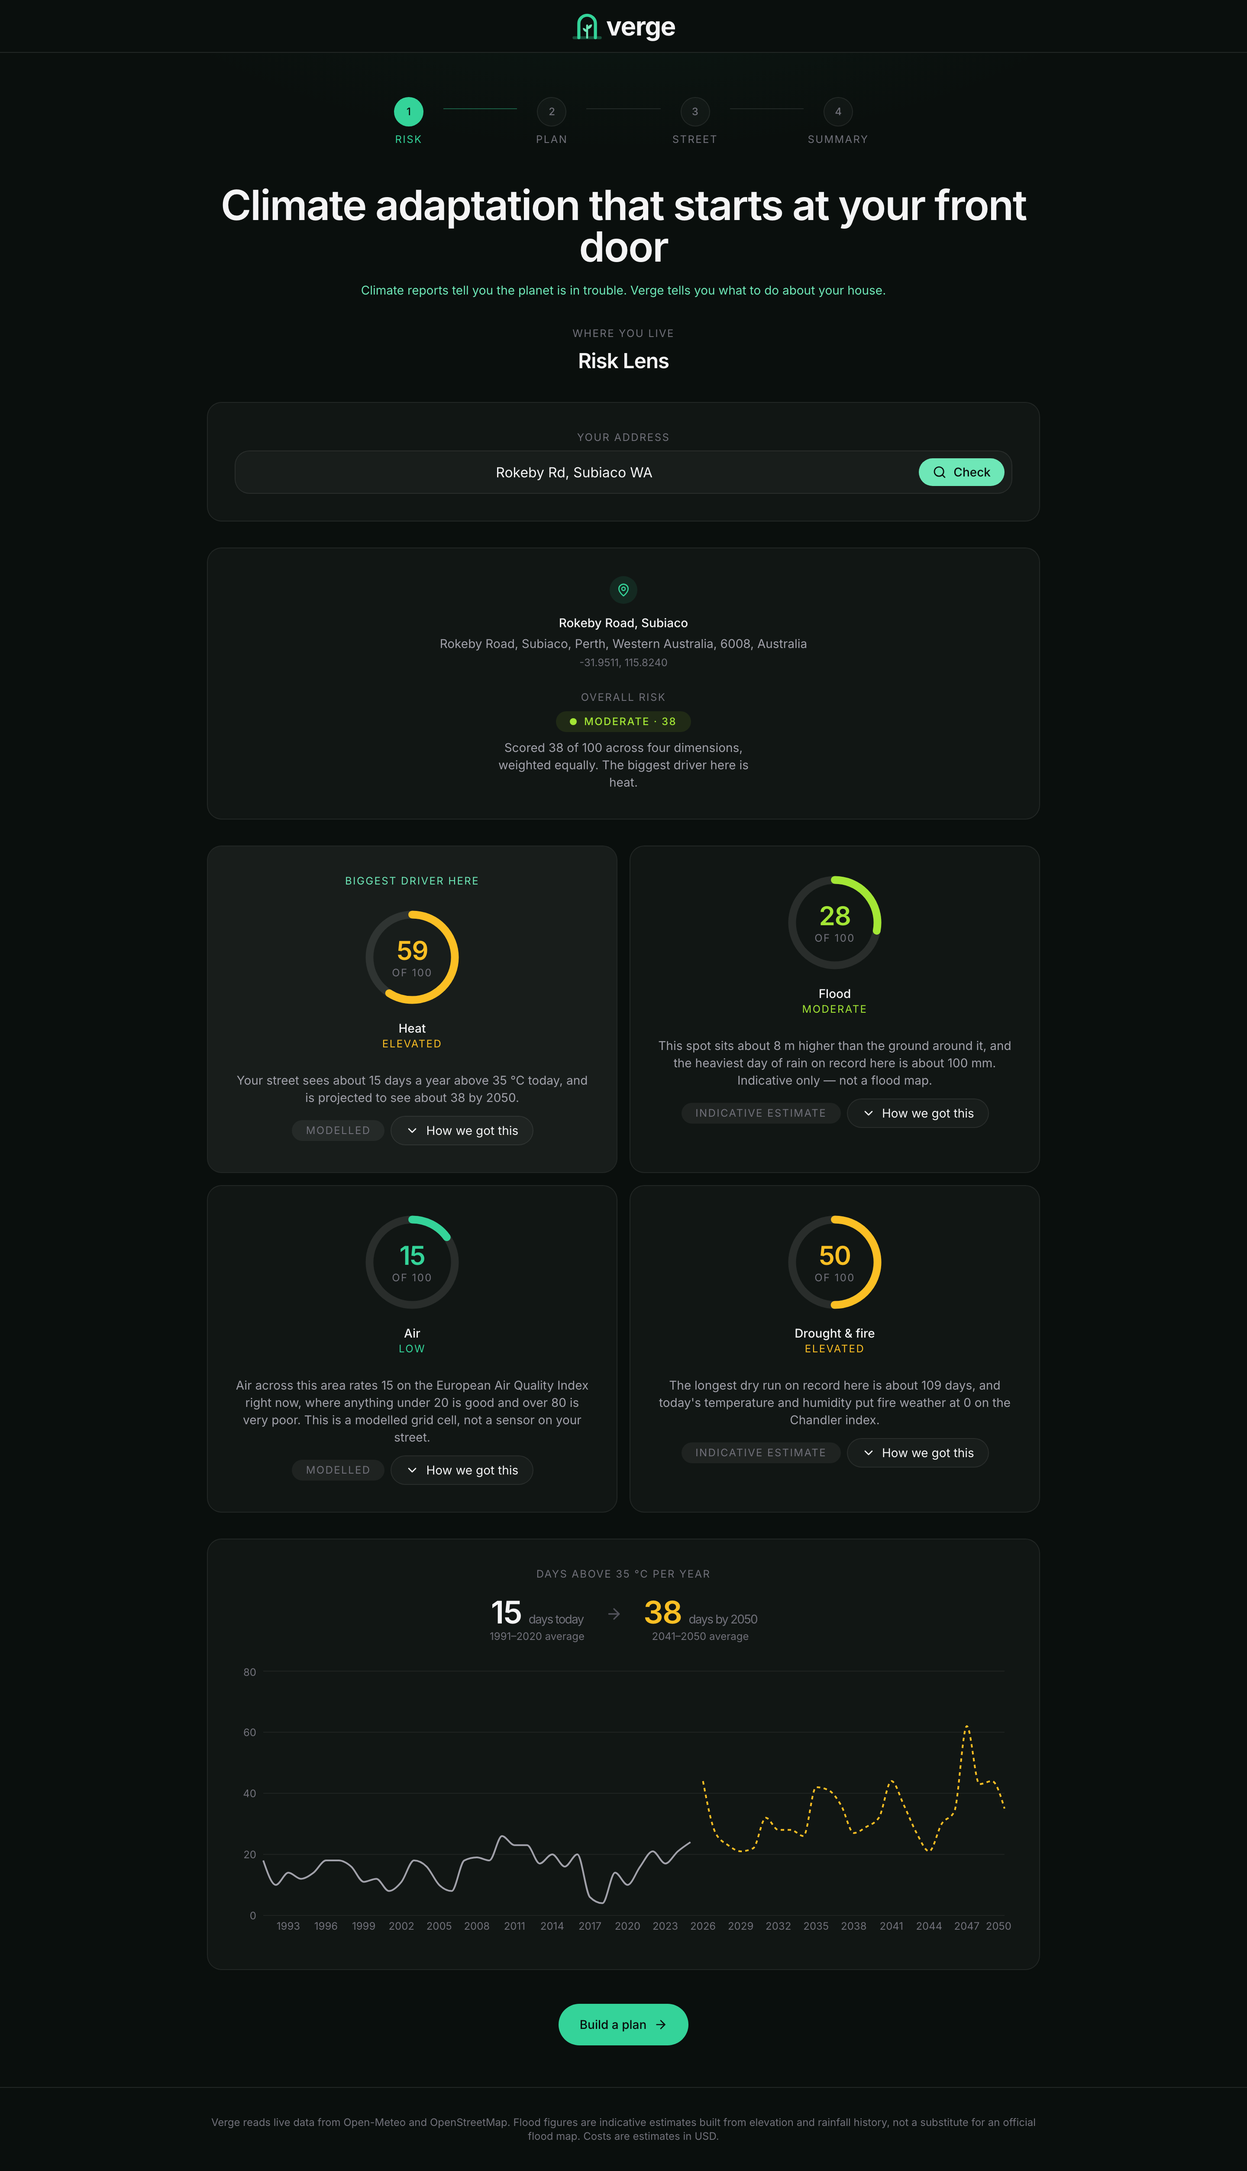
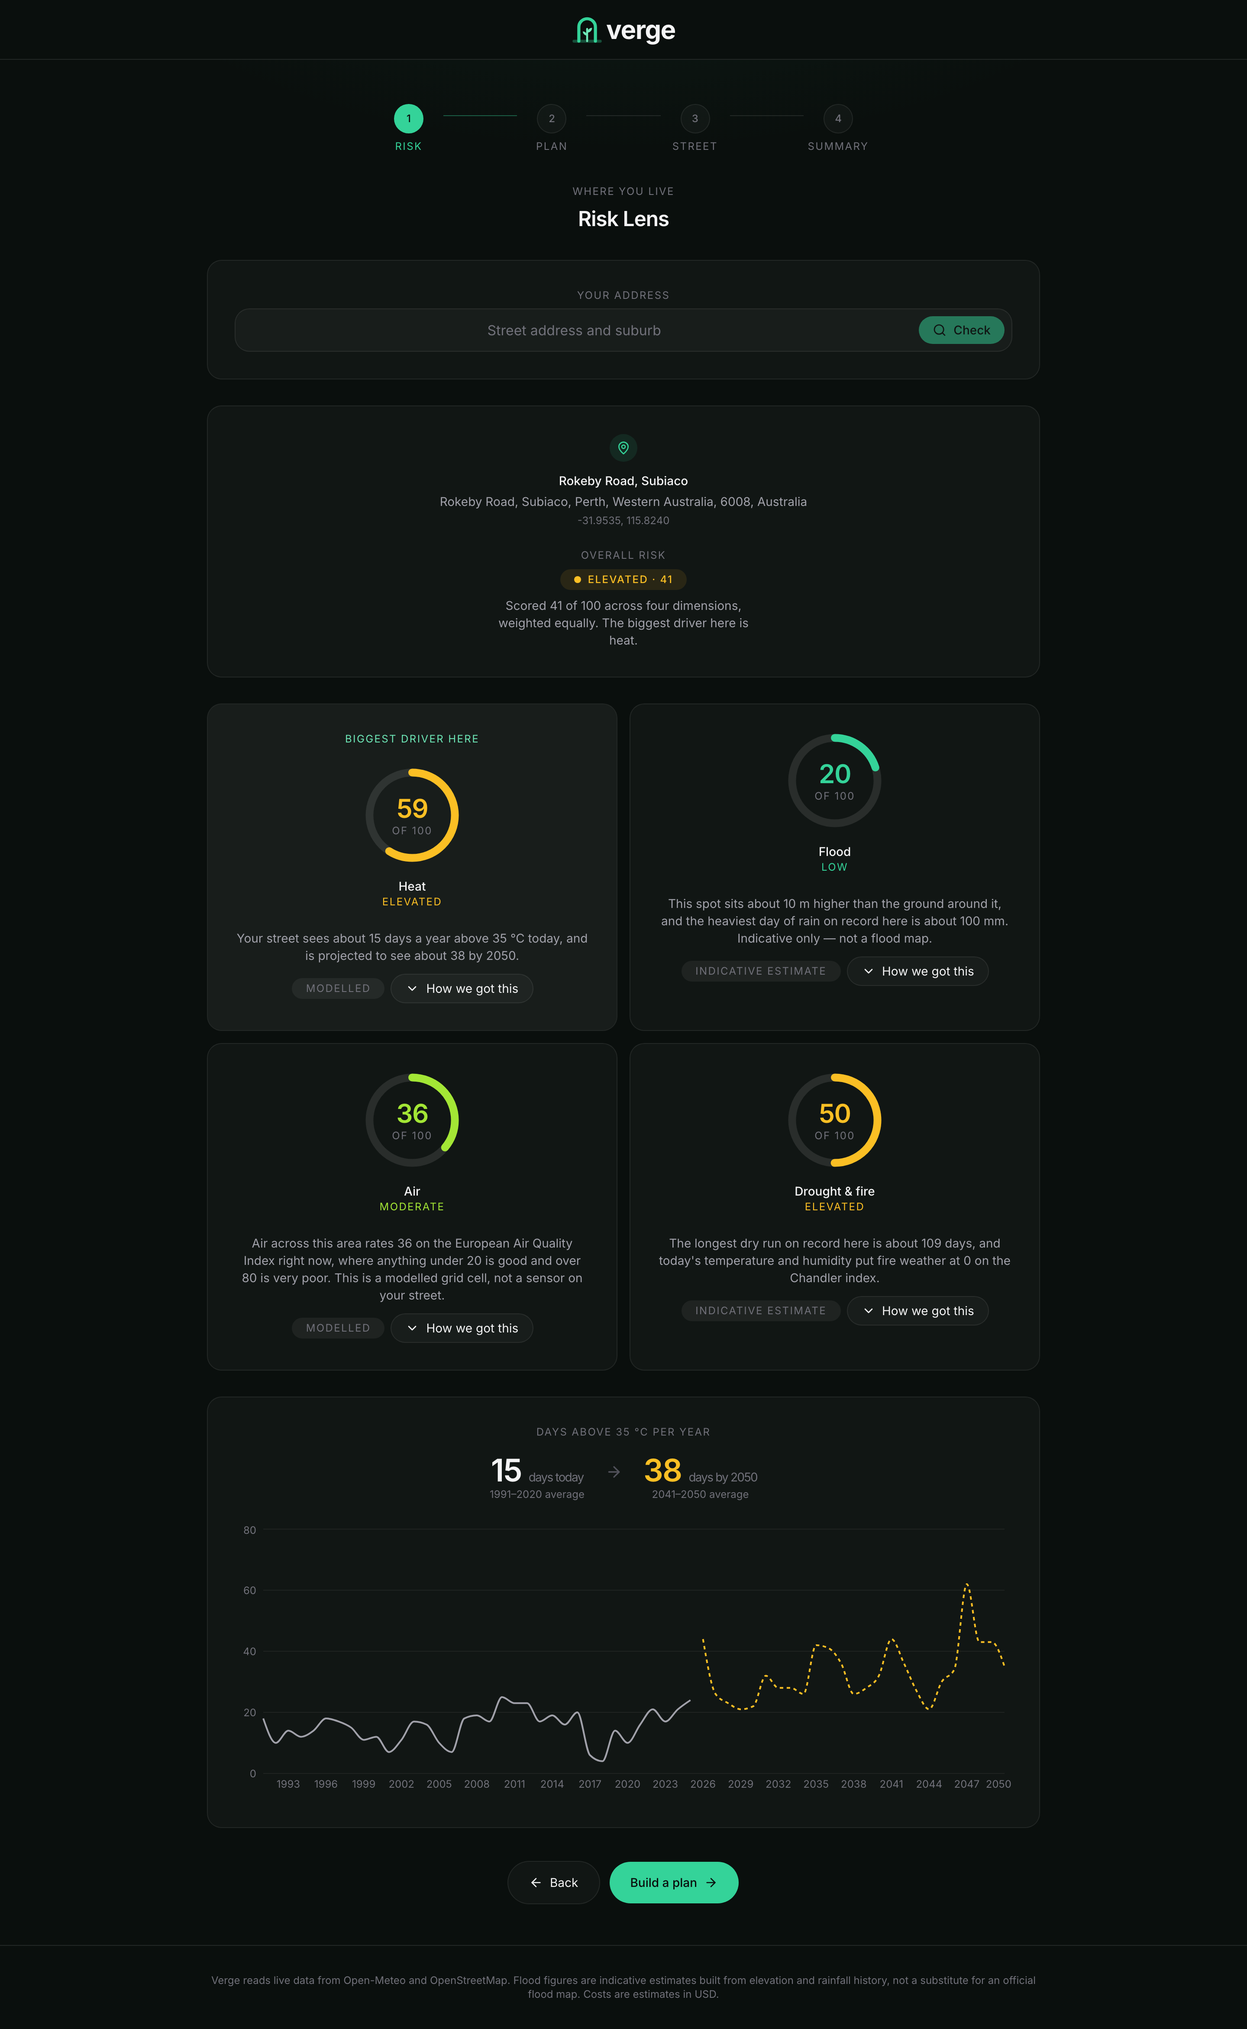
Add a home page so the app opens like an app
The first screen was step one of the wizard — a hero, an address field, and a
large empty card explaining nothing would appear until you typed something.
That is a form with a headline, not a front door.

The home page's only job is to take an address. Three short lines say what it
buys, and submitting drops you onto the Risk step with the profile already
loading. It is not a fifth step: the rail still shows four and the home page
sits outside it, because it is where the app starts rather than something you
complete. The wordmark now returns there from anywhere, since the rail only
covers the numbered steps and the page would otherwise be unreachable once you
are inside the flow.

Splitting the entrance from the first step changed what "started" means. The
guard bounced anything without a resolved profile back to the first step, but
no profile exists while the five climate requests are in flight, so arriving at
Risk right after submitting would have bounced straight home. "Started" is now
"an address was submitted". Verified: #summary with no profile lands on #home, a
search from home lands on #lens, and the profile survives round trips through
the front door.

Screenshot script hardened: regenerating once rebuilt the Street Audit image
from a watermarked Google Street View capture in test-photos/ and it had to be
reverted before commit. That shot is now opt-in via AUDIT_PHOTO and runs last so
a failure cannot block the other five. The committed audit screenshot is
[…]

diff --git a/src/components/home/HomePage.tsx b/src/components/home/HomePage.tsx
@@ -1,0 +1,103 @@
+import { ImagePlus, ListChecks, MapPin } from 'lucide-react'
+import type { ComponentType } from 'react'
+
+import { AddressSearch } from '../lens/AddressSearch'
+import { Card } from '../ui/Card'
+
+interface HomePageProps {
+  readonly onSearch: (query: string) => void
+  readonly loading?: boolean
+  readonly error?: string
+}
+
+interface StepPreview {
+  readonly icon: ComponentType<{ className?: string }>
+  readonly label: string
+  readonly line: string
+}
+
+/**
+ * What the address buys you, in three lines.
+ *
+ * Kept to a noun phrase and one short sentence each. The long explanations
+ * that used to sit on the first screen were removed on purpose — a front door
+ * that has to be read before it can be used is not a front door.
+ */
+const PREVIEW: readonly StepPreview[] = [
+  {
+    icon: MapPin,
+    label: 'Your risk',
+    line: 'Heat, flood, air and fire weather, scored for your coordinate.',
+  },
+  {
+    icon: ListChecks,
+    label: 'Your plan',
+    line: 'Five ranked actions with cost and effort. Renters get renter-legal ones.',
+  },
+  {
+    icon: ImagePlus,
+    label: 'Your street',
+    line: 'A photo becomes a cooling score and three specific changes.',
+  },
+]
+
+/**
+ * The front door.
+ *
+ * One job: take an address. Everything else on this page exists to make that
+ * field look worth using, which is why the three-step preview is three short
+ * lines rather than a feature tour.
+ *
+ * It is NOT a numbered step. The progress rail is hidden here and the flow
+ * still has four steps — this is the page you start from, and counting it
+ * would make a four-step wizard look like a five-step one. Scope is unchanged:
+ * CLAUDE.md section 2 locks three features, and this presents them rather than
+ * adding a fourth.
+ */
+export function HomePage({ onSearch, loading = false, error }: HomePageProps) {
+  return (
+    <div className="space-y-8">
+      <section className="space-y-4 pt-4 text-center md:pt-10">
+        <h1 className="text-4xl font-semibold tracking-tight text-zinc-100 md:text-6xl">
+          Climate adaptation that starts at your front door
+        </h1>
+        <p className="mx-auto max-w-2xl text-sm text-accent-text md:text-base">
+          Climate reports tell you the planet is in trouble. Verge tells you what to do
+          about your house.
+        </p>
+      </section>
+
+      <Card>
+        <AddressSearch
+          onSearch={onSearch}
+          loading={loading}
+          {...(error ? { error } : {})}
+        />
+      </Card>
+
+      <ul className="grid grid-cols-1 gap-4 md:grid-cols-3">
+        {PREVIEW.map((item) => {
+          const Icon = item.icon
+          return (
+            <li key={item.label}>
+              <Card>
+                <div className="flex h-full flex-col items-center gap-3 text-center">
+                  <span className="flex h-10 w-10 items-center justify-center rounded-full bg-accent-quiet">
+                    <Icon className="h-5 w-5 text-accent" />
+                  </span>
+                  <p className="text-sm font-medium text-zinc-100">{item.label}</p>
+                  <p className="text-sm text-zinc-400">{item.line}</p>
+                </div>
+              </Card>
+            </li>
+          )
+        })}
+      </ul>
+
+      <p className="text-center text-xs text-zinc-500">
+        Built on live observational and projection data. Nothing is stored, and no
+        account is needed.
+      </p>
+    </div>
+  )
+}

diff --git a/src/App.tsx b/src/App.tsx
@@ -3,6 +3,7 @@ import { ImagePlus, MapPin } from 'lucide-react'
 
 import { AddressSearch } from './components/lens/AddressSearch'
 import { AppShell } from './components/layout/AppShell'
+import { HomePage } from './components/home/HomePage'
 import { Badge } from './components/ui/Badge'
 import { Button } from './components/ui/Button'
 import { Card } from './components/ui/Card'
@@ -103,6 +104,13 @@ export default function App() {
    * the summary are both about one specific coordinate.
    */
   const hasProfile = profile !== undefined
+
+  /**
+   * The flow has begun once an address is submitted, not once it resolves —
+   * otherwise arriving at the Risk step while the five climate requests are
+   * still in flight would bounce straight back to the home page.
+   */
+  const started = hasProfile || busy
   const unlocked: readonly Step[] = hasProfile ? ALL_STEPS : LENS_ONLY
 
   /**
@@ -124,8 +132,14 @@ export default function App() {
    * identity on every render, which would run this effect on every render.
    */
   useEffect(() => {
+    if (step === 'home') return
+    if (!started) {
+      // A bookmarked #summary, or a refresh after the state was lost.
+      go('home')
+      return
+    }
     if (!hasProfile && step !== 'lens') go('lens')
-  }, [step, hasProfile, go])
+  }, [step, started, hasProfile, go])
 
   /**
    * Clear every answer and go back to the beginning.
@@ -141,25 +155,31 @@ export default function App() {
     lens.reset()
     planner.reset()
     audit.reset()
-    go('lens')
+    go('home')
   }, [lens, planner, audit, go])
 
   return (
     <AppShell>
-      <StepNav current={step} unlocked={unlocked} completed={completed} onGo={go} />
+      {step === 'home' ? null : (
+        <StepNav current={step} unlocked={unlocked} completed={completed} onGo={go} />
+      )}
+
+      {step === 'home' ? (
+        <StepPage stepKey="home">
+          <HomePage
+            onSearch={(query) => {
+              planner.reset()
+              void lens.load(query)
+              go('lens')
+            }}
+            loading={busy}
+            {...(lensError ? { error: lensError.message } : {})}
+          />
+        </StepPage>
+      ) : null}
 
       {step === 'lens' ? (
         <StepPage stepKey="lens">
-          <section className="space-y-4 pt-2">
-            <h1 className="text-3xl font-semibold tracking-tight text-zinc-100 md:text-5xl">
-              Climate adaptation that starts at your front door
-            </h1>
-            <p className="mx-auto max-w-2xl text-sm text-accent-text">
-              Climate reports tell you the planet is in trouble. Verge tells you what to do about
-              your house.
-            </p>
-          </section>
-
           <section className="space-y-8">
             <SectionHeading eyebrow="Where you live" title="Risk Lens" />
 
@@ -199,6 +219,7 @@ export default function App() {
             )}
 
             <StepFooter
+              onBack={() => go('home')}
               onNext={() => go('plan')}
               nextLabel="Build a plan"
               {...(profile ? {} : { nextBlockedReason: 'Check an address to continue.' })}

diff --git a/src/components/layout/Header.tsx b/src/components/layout/Header.tsx
@@ -69,12 +69,23 @@ function VergeMark({ className }: { readonly className?: string }) {
 export function Header() {
   return (
     <header className="border-b border-white/10 bg-canvas">
-      <div className="mx-auto flex max-w-5xl items-center justify-center gap-1 px-6 py-3 md:px-8">
-        <VergeMark className="h-9 w-9 shrink-0 text-accent" />
+      <div className="mx-auto flex max-w-5xl items-center justify-center px-6 py-3 md:px-8">
+        {/*
+          The lockup is the way back to the front door. Every app does this, and
+          without it the home page is unreachable once you are inside the flow —
+          the progress rail only covers the four numbered steps.
+        */}
+        <a
+          href="#home"
+          aria-label="Verge home"
+          className="flex items-center gap-1 rounded-2xl px-2 py-1 transition-colors duration-300 ease-out hover:bg-white/[0.03]"
+        >
+          <VergeMark className="h-9 w-9 shrink-0 text-accent" />
 
-        <p className="text-3xl font-bold lowercase leading-none tracking-tight text-zinc-100">
-          verge
-        </p>
+          <p className="text-3xl font-bold lowercase leading-none tracking-tight text-zinc-100">
+            verge
+          </p>
+        </a>
       </div>
     </header>
   )

diff --git a/src/components/layout/StepNav.tsx b/src/components/layout/StepNav.tsx
@@ -2,10 +2,10 @@ import { Fragment } from 'react'
 import { Check, Lock } from 'lucide-react'
 
 import { cx } from '../../lib/format'
-import { STEPS } from '../../hooks/useStep'
-import type { Step } from '../../hooks/useStep'
+import { NAV_STEPS } from '../../hooks/useStep'
+import type { NavStep, Step } from '../../hooks/useStep'
 
-const LABELS: Readonly<Record<Step, string>> = {
+const LABELS: Readonly<Record<NavStep, string>> = {
   lens: 'Risk',
   plan: 'Plan',
   audit: 'Street',
@@ -39,11 +39,11 @@ export function StepNav({ current, unlocked, completed, onGo }: StepNavProps) {
   return (
     <nav aria-label="Progress" className="mx-auto w-full max-w-xl">
       <ol className="flex items-start justify-center">
-        {STEPS.map((step, index) => {
+        {NAV_STEPS.map((step, index) => {
           const isCurrent = step === current
           const isDone = completed.includes(step)
           const isUnlocked = unlocked.includes(step)
-          const previous = STEPS[index - 1]
+          const previous = NAV_STEPS[index - 1]
           const connectorLit = previous !== undefined && completed.includes(previous)
 
           return (

diff --git a/src/hooks/useStep.ts b/src/hooks/useStep.ts
@@ -1,18 +1,30 @@
 import { useCallback, useEffect, useState } from 'react'
 
-/** The four pages of the flow, in order. */
-export const STEPS = ['lens', 'plan', 'audit', 'summary'] as const
+/**
+ * The numbered flow, in order. These are the four the progress rail shows.
+ */
+export const NAV_STEPS = ['lens', 'plan', 'audit', 'summary'] as const
+
+/**
+ * Every page the hash can address, including the front door.
+ *
+ * `home` is deliberately outside NAV_STEPS: it is where the app starts, not a
+ * step you complete, and numbering it would make a four-step flow look like a
+ * five-step one.
+ */
+export const STEPS = ['home', ...NAV_STEPS] as const
 
 export type Step = (typeof STEPS)[number]
+export type NavStep = (typeof NAV_STEPS)[number]
 
 function isStep(value: string): value is Step {
   return (STEPS as readonly string[]).includes(value)
 }
 
 function readHash(): Step {
-  if (typeof window === 'undefined') return 'lens'
+  if (typeof window === 'undefined') return 'home'
   const raw = window.location.hash.replace(/^#/, '')
-  return isStep(raw) ? raw : 'lens'
+  return isStep(raw) ? raw : 'home'
 }
 
 export interface UseStep {

diff --git a/DECISIONS.md b/DECISIONS.md
@@ -1254,3 +1254,55 @@ runs return five.
 Third time this pattern has paid off: the renter gate, the audit's missing
 temperature field, and now this. If a guarantee matters, enforce it in code —
 asking the model is a preference, not a contract.
+
+---
+
+## 2026-08-30 — A home page, so it opens like an app
+
+The first screen was step one of the wizard: a hero, an address field, and a
+large empty card explaining that nothing would appear until you typed
+something. That is a form with a headline, not a front door.
+
+There is now a home page whose only job is to take an address. Three short
+lines say what the address buys — your risk, your plan, your street — and
+submitting one drops you straight onto the Risk step with the profile already
+loading.
+
+**It is not a fifth step.** The progress rail still shows four, and the home
+page sits outside it: it is where the app starts, not something you complete,
+and numbering it would make a four-step flow look like five. Same argument as
+the summary page, and scope is still the three features CLAUDE.md locks.
+
+**The wordmark is now the way back.** Without it the home page becomes
+unreachable the moment you enter the flow, because the rail only covers the
+numbered steps. This is the convention every app already uses, so it needs no
+explaining.
+
+### Getting the guard right
+
+Splitting the entrance from the first step changed what "started" means. The
+guard originally bounced anything without a resolved profile back to the first
+step, but the profile does not exist yet while the five climate requests are in
+flight — so arriving at the Risk step immediately after submitting would have
+bounced straight home again. `started` is therefore "an address has been
+submitted", not "a profile exists". Verified: `#summary` with no profile lands
+on `#home`, a search from home lands on `#lens`, and the profile survives every
+round trip through the front door.
+
+### A test bug that looked exactly like an app bug
+
+The first verification reported the profile lost on returning to `#lens`. It was
+not. `OVERALL RISK` is rendered uppercase by CSS, `innerText` returns what is
+rendered, and my check was a case-sensitive `includes('Overall risk')` — while
+the Playwright locator that had just passed was case-insensitive. Two checks of
+the same thing disagreeing, and the stricter-looking one was wrong. Second time
+this session: the same mistake hid the elapsed counter.
+
+### Screenshot script hardened
+
+Regenerating the shots once rebuilt the Street Audit image from a Google Street
+View capture sitting in `test-photos/`, watermark and all, and it had to be
+caught and reverted before commit. The audit shot is now opt-in
+(`AUDIT_PHOTO=<path>`) rather than picking up whatever is on disk, and it runs
+last so a failure there cannot block the other five. The committed audit
+screenshot is consequently older than the rest, which README now says outright.

diff --git a/CLAUDE.md b/CLAUDE.md
@@ -103,11 +103,19 @@ This is the ninety-second video moment. It carries Technology and Originality.
 ### Presentation: four pages, still three features
 
 Amended 2026-08-30. The three features are presented as a four-page flow —
-Risk, Plan, Street, Summary — rather than one long scroll. Each step renders on
-its own, and the current step is mirrored into the URL hash so the browser back
-button works and a refresh keeps your place.
+Risk, Plan, Street, Summary — rather than one long scroll, entered from a home
+page. Each step renders on its own, and the current step is mirrored into the
+URL hash so the browser back button works and a refresh keeps your place.
 
-**The summary is a view, not a fourth feature.** It recomputes nothing; every
+**The home page is the front door, not a step.** It is outside the numbered
+rail, which stays at four: it is where the app starts rather than something you
+complete, and numbering it would make a four-step flow look like five. Its only
+job is to take an address; the three-line preview exists to make that field look
+worth using. The wordmark returns to it from anywhere, because the rail covers
+only the numbered steps.
+
+**Neither the home page nor the summary is a feature.** The summary is a view
+over work already done, and the home page is an entrance to it. It recomputes nothing; every
 number on it was already produced by the step that owns it, so it cannot
 disagree with the flow that built it. Scope is still locked at three.
 
@@ -184,6 +192,7 @@ verge/
     │   └── useStreetAudit.ts
     └── components/
         ├── layout/       AppShell, Header, SectionHeading, StepNav, StepFooter, StepPage
+        ├── home/         HomePage
         ├── summary/      SummaryPage
         ├── ui/           Card, Button, Field, Badge, Skeleton, ErrorState
         ├── lens/         AddressSearch, RiskDial, RiskGrid, TrendChart, Verdict

diff --git a/README.md b/README.md
@@ -16,8 +16,10 @@ exact coordinate out of real observational and projection data, turns it into a
 ranked, costed plan of things you can do this month, and grades your street from
 a photo.
 
-It runs as four pages — Risk, Plan, Street, Summary — with the current step in
-the URL hash, so the browser back button works and a refresh keeps your place.
+It opens on a home page whose only job is to take an address, then runs as four
+pages — Risk, Plan, Street, Summary — with the current step in the URL hash, so
+the browser back button works and a refresh keeps your place. The wordmark
+returns you to the front door from anywhere.
 The summary recomputes nothing: every number on it came from the step that
 produced it, and it says plainly which steps you skipped rather than leaving a
 convincing-looking gap.
@@ -72,6 +74,12 @@ The build is logged honestly, including the mistakes, in
 **Street Audit** — surfaces read from a photograph, a cooling score, and three
 interventions whose temperature ranges come from cited literature rather than
 from the model.
+
+*This one shot predates the four-page layout.* Regenerating it needs a street
+photograph whose licence allows publishing, and the app is deliberately not
+willing to put an arbitrary one in a public README — see the note under
+`scripts/screenshots.mjs`. The feature itself is current; only the picture of it
+is old.
 
 ![Summary](docs/screenshots/06-summary-desktop.png)
 
